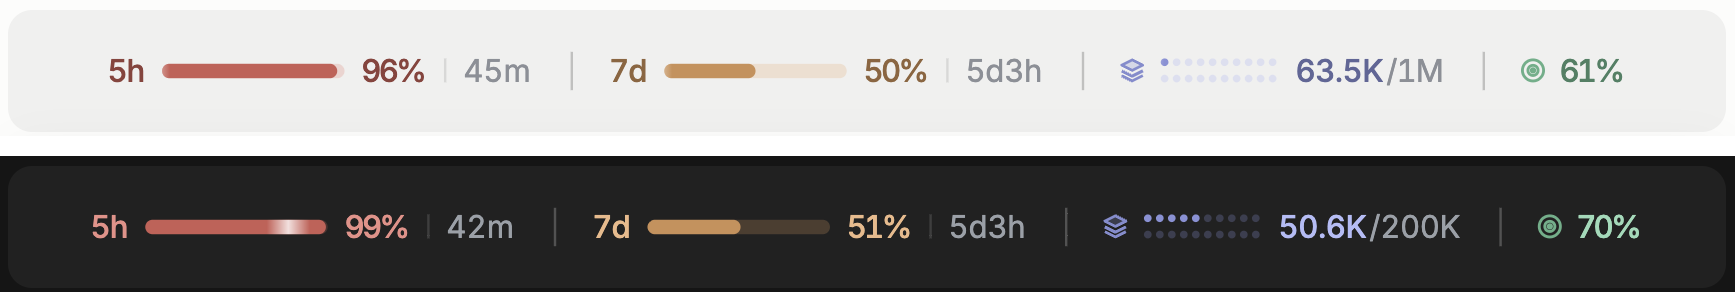
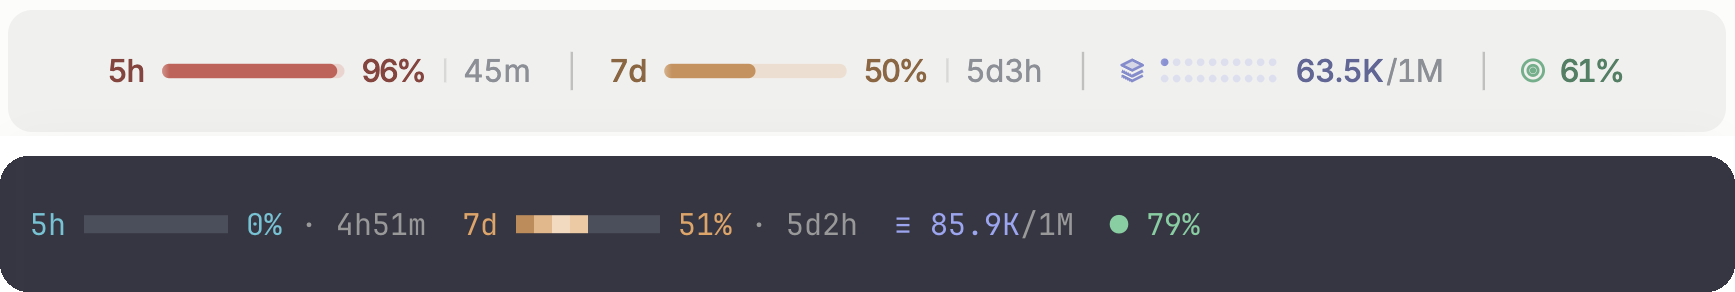
Show the desktop and terminal bands in the README header

diff --git a/README.md b/README.md
@@ -11,7 +11,7 @@
 
 English · [简体中文](./README.zh-CN.md)
 
-<img src="docs/images/hero.png" alt="usage-band in the Claude Code desktop app, light and dark mode" width="760">
+<img src="docs/images/hero.png" alt="usage-band in the Claude Code desktop app (top) and in a terminal (bottom)" width="760">
 
 </div>
 

diff --git a/README.zh-CN.md b/README.zh-CN.md
@@ -11,7 +11,7 @@
 
 [English](./README.md) · 简体中文
 
-<img src="docs/images/hero.png" alt="usage-band 在 Claude Code 桌面端的浅色和深色模式效果" width="760">
+<img src="docs/images/hero.png" alt="usage-band 在 Claude Code 桌面端（上）和终端（下）的效果" width="760">
 
 </div>
 
